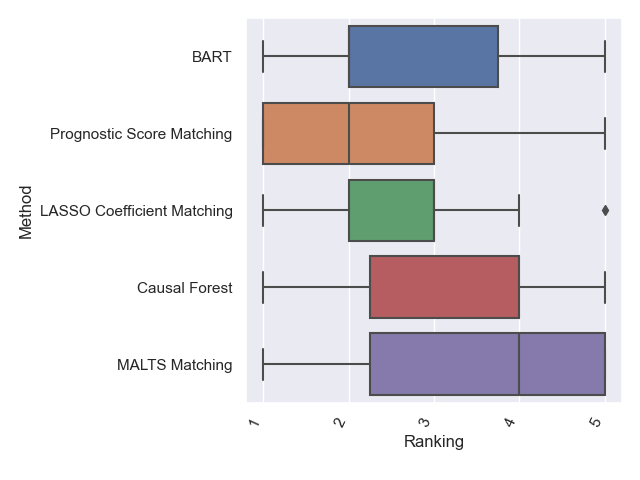
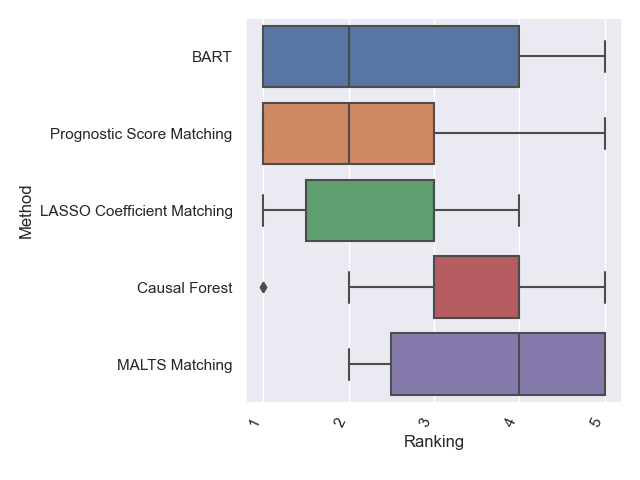
ading DOubleML for acic cate error run

diff --git a/Experiments/acic_error_and_runtime/cate_error.py b/Experiments/acic_error_and_runtime/cate_error.py
@@ -16,7 +16,7 @@ import matplotlib.ticker as ticker
 import seaborn as sns
 
 from Experiments.helpers import get_acic_data
-from other_methods import pymalts, bart, causalforest, prognostic
+from other_methods import pymalts, bart, causalforest, prognostic, doubleml
 from src.linear_coef_matching_mf import LCM_MF
 import pickle
 
@@ -81,17 +81,8 @@ method_name = 'LASSO Coefficient Matching'
 start = time.time()
 lcm = LCM_MF(outcome='Y', treatment='T', data=df_dummy_data, n_splits=n_splits, n_repeats=1)
 lcm.fit(method='linear', double_model=False)
-attempt = 0
-while attempt < nn_retries:
-    try:
-        lcm.MG(k=k_est)
-        break
-    except RuntimeError as e:
-        print(f'{method_name} attempt {attempt+1}: {e}')
-        attempt +=1
-        if attempt == nn_retries:
-            raise e
-lcm.CATE(cate_methods=[['mean', False]])
+lcm.MG(k=k_est)
+lcm.CATE(cate_methods=[['linear_pruned', False]])
 times[method_name] = time.time() - start
 
 cate_df = lcm.cate_df
@@ -112,17 +103,8 @@ start = time.time()
 lcm = LCM_MF(outcome='Y', treatment='T', data=df_dummy_data, n_splits=n_splits, n_repeats=1)
 lcm.gen_skf = split_strategy
 lcm.fit(method='tree', double_model=False)
-attempt = 0
-while attempt < nn_retries:
-    try:
-        lcm.MG(k=k_est)
-        break
-    except RuntimeError as e:
-        print(f'{method_name} attempt {attempt+1}: {e}')
-        attempt +=1
-        if attempt == nn_retries:
-            raise e
-lcm.CATE(cate_methods=[['mean', False]])
+lcm.MG(k=k_est)
+lcm.CATE(cate_methods=[['linear_pruned', False]])
 times[method_name] = time.time() - start
 
 cate_df = lcm.cate_df
@@ -133,37 +115,13 @@ cate_df['Method'] = [method_name for i in range(cate_df.shape[0])]
 df_err = df_err.append(cate_df[['Method', 'True_CATE', 'Est_CATE', 'Relative Error (%)']].copy(deep=True))
 print(f'{method_name} method complete: {time.time() - start}')
 
-# method_name = 'DoubleML'
-# start = time.time()
-# cate_est_doubleml = doubleml.doubleml('Y', 'T', df_dummy_data, gen_skf=split_strategy)
-# times[method_name] = time.time() - start
-
-# df_err_bart = pd.DataFrame()
-# df_err_bart['Method'] = [method_name for i in range(cate_est_bart.shape[0])]
-# df_err_bart['Relative Error (%)'] = np.abs(
-#     (cate_est_bart['avg.CATE'].to_numpy() - df_true['TE'].to_numpy()) / np.abs(df_true['TE']).mean())
-# df_err_bart['True_CATE'] = df_true['TE'].to_numpy()
-# df_err_bart['Est_CATE'] = cate_est_bart['avg.CATE'].to_numpy()
-# df_err = df_err.append(df_err_bart[['Method', 'True_CATE', 'Est_CATE', 'Relative Error (%)']])
-# print(f'{method_name} complete: {time.time() - start}')
-
-
 if run_malts:
     method_name = 'MALTS Matching'
-    attempt = 0
-    while attempt < nn_retries:
-        try:
-            start = time.time()
-            m = pymalts.malts_mf('Y', 'T', data=df_data, discrete=binary+categorical, k_tr=15, k_est=k_est,
-                                 n_splits=n_splits, estimator='linear', smooth_cate=False,
-                                 gen_skf=split_strategy)
-            times[method_name] = time.time() - start
-            break
-        except RuntimeError as e:
-            print(f'{method_name} attempt {attempt+1}: {e}')
-            attempt += 1
-            if attempt == nn_retries:
-                raise e
+    start = time.time()
+    m = pymalts.malts_mf('Y', 'T', data=df_data, discrete=binary+categorical, k_tr=15, k_est=k_est,
+                         n_splits=n_splits, estimator='linear', smooth_cate=False,
+                         gen_skf=split_strategy)
+    times[method_name] = time.time() - start
     cate_df = m.CATE_df
     cate_df = cate_df.rename(columns={'avg.CATE': 'Est_CATE'})
     cate_df['True_CATE'] = df_true['TE'].to_numpy()
@@ -174,19 +132,10 @@ if run_malts:
     print(f'{method_name} complete: {time.time() - start}')
 
 method_name = 'Prognostic Score Matching'
-attempt = 0
-while attempt < nn_retries:
-    try:
-        start = time.time()
-        cate_est_prog, _, _ = prognostic.prognostic_cv('Y', 'T', df_dummy_data,
-                                                       k_est=k_est, gen_skf=split_strategy)
-        times[method_name] = time.time() - start
-        break
-    except RuntimeError as e:
-        print(f'{method_name} attempt {attempt + 1}: {e}')
-        attempt += 1
-        if attempt == nn_retries:
-            raise e
+start = time.time()
+cate_est_prog, _, _ = prognostic.prognostic_cv('Y', 'T', df_dummy_data,
+                                               k_est=k_est, gen_skf=split_strategy)
+times[method_name] = time.time() - start
 df_err_prog = pd.DataFrame()
 df_err_prog['Method'] = [method_name for i in range(cate_est_prog.shape[0])]
 df_err_prog['Relative Error (%)'] = np.abs((cate_est_prog['avg.CATE'].to_numpy() - df_true['TE'].to_numpy())/np.abs(df_true['TE']).mean())
@@ -195,32 +144,46 @@ df_err_prog['Est_CATE'] = cate_est_prog['avg.CATE'].to_numpy()
 df_err = df_err.append(df_err_prog[['Method', 'True_CATE', 'Est_CATE', 'Relative Error (%)']])
 print(f'{method_name} complete: {time.time() - start}')
 
-# method_name = 'BART'
-# start = time.time()
-# cate_est_bart = bart.bart('Y', 'T', df_dummy_data, gen_skf=split_strategy)
-# times[method_name] = time.time() - start
-#
-# df_err_bart = pd.DataFrame()
-# df_err_bart['Method'] = [method_name for i in range(cate_est_bart.shape[0])]
-# df_err_bart['Relative Error (%)'] = np.abs(
-#     (cate_est_bart['avg.CATE'].to_numpy() - df_true['TE'].to_numpy()) / np.abs(df_true['TE']).mean())
-# df_err_bart['True_CATE'] = df_true['TE'].to_numpy()
-# df_err_bart['Est_CATE'] = cate_est_bart['avg.CATE'].to_numpy()
-# df_err = df_err.append(df_err_bart[['Method', 'True_CATE', 'Est_CATE', 'Relative Error (%)']])
-# print(f'{method_name} complete: {time.time() - start}')
-#
-# method_name = 'Causal Forest'
-# start = time.time()
-# cate_est_cf = causalforest.causalforest('Y', 'T', df_dummy_data, gen_skf=split_strategy)
-# times[method_name] = time.time() - start
-#
-# df_err_cf = pd.DataFrame()
-# df_err_cf['Method'] = [method_name for i in range(cate_est_cf.shape[0])]
-# df_err_cf['Relative Error (%)'] = np.abs((cate_est_cf['avg.CATE'].to_numpy() - df_true['TE'].to_numpy())/np.abs(df_true['TE']).mean())
-# df_err_cf['True_CATE'] = df_true['TE'].to_numpy()
-# df_err_cf['Est_CATE'] = cate_est_cf['avg.CATE'].to_numpy()
-# df_err = df_err.append(df_err_cf[['Method', 'True_CATE', 'Est_CATE', 'Relative Error (%)']])
-# print(f'{method_name} complete: {time.time() - start}')
+method_name = 'DoubleML'
+start = time.time()
+cate_est_doubleml = doubleml.doubleml('Y', 'T', df_dummy_data, gen_skf=split_strategy)
+times[method_name] = time.time() - start
+
+df_err_doubleml = pd.DataFrame()
+df_err_doubleml['Method'] = [method_name for i in range(cate_est_doubleml.shape[0])]
+df_err_doubleml['Relative Error (%)'] = np.abs(
+    (cate_est_doubleml['avg.CATE'].to_numpy() - df_true['TE'].to_numpy()) / np.abs(df_true['TE']).mean())
+df_err_doubleml['True_CATE'] = df_true['TE'].to_numpy()
+df_err_doubleml['Est_CATE'] = cate_est_doubleml['avg.CATE'].to_numpy()
+df_err = df_err.append(df_err_doubleml[['Method', 'True_CATE', 'Est_CATE', 'Relative Error (%)']])
+print(f'{method_name} complete: {time.time() - start}')
+
+method_name = 'BART'
+start = time.time()
+cate_est_bart = bart.bart('Y', 'T', df_dummy_data, gen_skf=split_strategy)
+times[method_name] = time.time() - start
+
+df_err_bart = pd.DataFrame()
+df_err_bart['Method'] = [method_name for i in range(cate_est_bart.shape[0])]
+df_err_bart['Relative Error (%)'] = np.abs(
+    (cate_est_bart['avg.CATE'].to_numpy() - df_true['TE'].to_numpy()) / np.abs(df_true['TE']).mean())
+df_err_bart['True_CATE'] = df_true['TE'].to_numpy()
+df_err_bart['Est_CATE'] = cate_est_bart['avg.CATE'].to_numpy()
+df_err = df_err.append(df_err_bart[['Method', 'True_CATE', 'Est_CATE', 'Relative Error (%)']])
+print(f'{method_name} complete: {time.time() - start}')
+
+method_name = 'Causal Forest'
+start = time.time()
+cate_est_cf = causalforest.causalforest('Y', 'T', df_dummy_data, gen_skf=split_strategy)
+times[method_name] = time.time() - start
+
+df_err_cf = pd.DataFrame()
+df_err_cf['Method'] = [method_name for i in range(cate_est_cf.shape[0])]
+df_err_cf['Relative Error (%)'] = np.abs((cate_est_cf['avg.CATE'].to_numpy() - df_true['TE'].to_numpy())/np.abs(df_true['TE']).mean())
+df_err_cf['True_CATE'] = df_true['TE'].to_numpy()
+df_err_cf['Est_CATE'] = cate_est_cf['avg.CATE'].to_numpy()
+df_err = df_err.append(df_err_cf[['Method', 'True_CATE', 'Est_CATE', 'Relative Error (%)']])
+print(f'{method_name} complete: {time.time() - start}')
 
 df_err.loc[:, 'Relative Error (%)'] = df_err.loc[:, 'Relative Error (%)'] * 100
 

diff --git a/other_methods/doubleml.py b/other_methods/doubleml.py
@@ -9,19 +9,15 @@ def doubleml(outcome, treatment, data, n_splits=2, gen_skf=None):
     if gen_skf is None:
         skf = StratifiedKFold(n_splits=n_splits)
         gen_skf = skf.split(data, data[treatment])
+    covariates = [c for c in data.columns if c not in [outcome, treatment]]
     cate_est = pd.DataFrame()
     for est_idx, train_idx in gen_skf:
         df_train = data.iloc[train_idx]
         df_est = data.iloc[est_idx]
-
-        covariates = list(set(data.columns) - set([outcome, treatment]))
-
         X = np.array(df_train.loc[:, covariates])
         Y = np.array(df_train.loc[:, outcome])
         T = np.array(df_train.loc[:, treatment])
-
         X_est = np.array(df_est.loc[:, covariates])
-
         est = SparseLinearDML(discrete_treatment=True)
         print('1')
         start = time.time()
@@ -29,53 +25,22 @@ def doubleml(outcome, treatment, data, n_splits=2, gen_skf=None):
         print('2')
         print(time.time() - start)
         start = time.time()
-        print(est.effect(X=X_est))
+        this_te_est = est.effect(X=X_est)
         print('3')
         print(time.time() - start)
+        this_index = df_est.index
+        cate_est_i = pd.DataFrame(this_te_est, index=this_index, columns=['CATE'])
+        cate_est = pd.concat([cate_est, cate_est_i], join='outer', axis=1)
 
-        print('hi')
-    #     Xtest = df_est[covariates].to_numpy()
-    #     bart_res_c = dbarts.bart(Xc, Yc, Xtest, keeptrees=True, verbose=False, ntree=500, ndpost=10000)
-    #     if discrete_outcome:
-    #         y_c_hat_bart = norm.cdf(bart_res_c[2]).mean(axis=0)
-    #     else:
-    #         y_c_hat_bart = np.array(bart_res_c[7])
-    #     bart_res_t = dbarts.bart(Xt, Yt, Xtest, keeptrees=True, verbose=False, ntree=500, ndpost=10000)
-    #     if discrete_outcome:
-    #         y_t_hat_bart = norm.cdf(bart_res_t[2]).mean(axis=0)
-    #     else:
-    #         y_t_hat_bart = np.array(bart_res_t[7])
-    #     t_hat_bart = np.array(y_t_hat_bart - y_c_hat_bart)
-    #     this_index = df_est.index
-    #     control_preds_i = pd.DataFrame(y_c_hat_bart, index=this_index, columns=['Y0'])
-    #     treatment_preds_i = pd.DataFrame(y_t_hat_bart, index=this_index, columns=['Y1'])
-    #     cate_est_i = pd.DataFrame(t_hat_bart, index=this_index, columns=['CATE'])
-    #
-    #     control_preds = pd.concat([control_preds, control_preds_i], join='outer', axis=1)
-    #     treatment_preds = pd.concat([treatment_preds, treatment_preds_i], join='outer', axis=1)
-    #     cate_est = pd.concat([cate_est, cate_est_i], join='outer', axis=1)
-    # control_preds['avg.Y0'] = control_preds.mean(axis=1)
-    # control_preds['std.Y0'] = control_preds.std(axis=1)
-    # treatment_preds['avg.Y1'] = treatment_preds.mean(axis=1)
-    # treatment_preds['std.Y1'] = treatment_preds.std(axis=1)
-    # cate_est = cate_est.sort_index()
-    # cate_est['avg.CATE'] = cate_est.mean(axis=1)
-    # cate_est['std.CATE'] = cate_est.std(axis=1)
-    # if result == 'full':
-    #     return cate_est, control_preds, treatment_preds
-    # return cate_est
+    cate_est = cate_est.sort_index()
+    cate_est['avg.CATE'] = cate_est.mean(axis=1)
+    cate_est['std.CATE'] = cate_est.std(axis=1)
+    return cate_est
 
-def bart_sample(outcome, treatment, df_train, sample, covariates, binary=False):
-    Xc = np.array(df_train.loc[df_train[treatment] == 0, covariates])
-    Yc = np.array(df_train.loc[df_train[treatment] == 0, outcome])
-
-    Xt = np.array(df_train.loc[df_train[treatment] == 1, covariates])
-    Yt = np.array(df_train.loc[df_train[treatment] == 1, outcome])
-
-    if binary:
-        # for some reason bart can't do one sample inference with binary outcome. so we add a dummy sample
-        sample = np.concatenate([sample, np.zeros(shape=sample.shape)], axis=0)
-        return norm.cdf(dbarts.bart(Xt, Yt, sample, keeptrees=False, verbose=False)[2][:, 0]).mean() - \
-               norm.cdf(dbarts.bart(Xc, Yc, sample, keeptrees=False, verbose=False)[2][:, 0]).mean()
-    return dbarts.bart(Xt, Yt, sample, keeptrees=False, verbose=False)[7][0] - \
-           dbarts.bart(Xc, Yc, sample, keeptrees=False, verbose=False)[7][0]
+def doubleml_sample(outcome, treatment, df_train, sample, covariates):
+    X = np.array(df_train.loc[:, covariates])
+    Y = np.array(df_train.loc[:, outcome])
+    T = np.array(df_train.loc[:, treatment])
+    est = SparseLinearDML(discrete_treatment=True)
+    est.fit(Y=Y, T=T, X=X)
+    return est.effect(sample)

diff --git a/Experiments/acic_error_and_runtime/model_fits/lcm_model_fit.py b/Experiments/acic_error_and_runtime/model_fits/lcm_model_fit.py
@@ -7,17 +7,21 @@ import time
 from src.linear_coef_matching import LCM
 from utils import sample_match_group, sample_linear_cate
 from sklearn.neighbors import NearestNeighbors
+import os
 
 np.random.seed(0)
 
-acic_results_folder = f"{os.getenv('RESULTS_FOLDER')}/{os.getenv('ACIC_FOLDER')}"[:-1]
-split_num = int(os.getenv('SPLIT_NUM'))
+# acic_results_folder = f"{os.getenv('RESULTS_FOLDER')}/{os.getenv('ACIC_FOLDER')}"[:-1]
+# split_num = int(os.getenv('SPLIT_NUM'))
 
-with open(f'{acic_results_folder}/split.pkl', 'rb') as f:
-    est_idx, train_idx = pickle.load(f)[split_num]
+split_num = 1
+for acic_results_folder in [x[0] for x in os.walk('/Users/qlanners/projects/linear_coef_matching/Experiments/acic_error_and_runtime/Results_Tree')][1:]:
+    with open(f'{acic_results_folder}/split.pkl', 'rb') as f:
+        est_idx, train_idx = pickle.load(f)[split_num]
 
-df_train = pd.read_csv(f'{acic_results_folder}/df_dummy_data.csv', index_col=0).loc[train_idx].reset_index(drop=True)
+    df_train = pd.read_csv(f'{acic_results_folder}/df_dummy_data.csv', index_col=0).loc[train_idx].reset_index(drop=True)
 
-start = time.time()
-lcm = LCM(outcome='Y', treatment='T', data=df_train)
-print(lcm.fit(double_model=False, return_score=True))
+    start = time.time()
+    lcm = LCM(outcome='Y', treatment='T', data=df_train)
+    print(acic_results_folder.split('/')[-1])
+    print(lcm.fit(double_model=False, return_score=True))

diff --git a/Experiments/acic_error_and_runtime/plotting/errors.py b/Experiments/acic_error_and_runtime/plotting/errors.py
@@ -60,9 +60,11 @@ plt.xticks(rotation=65, horizontalalignment='right')
 plt.tight_layout()
 plt.savefig('plots/acic_cate_errors_ranking_tree2.png')
 
-perc_from_best = all_errors.copy(deep=True)
-for a in perc_from_best['ACIC File'].unique():
-    min = perc_from_best[perc_from_best['ACIC File'] == a]['Median Relative Error (%) (log)'].min()
-    perc_from_best.loc[perc_from_best['ACIC File'] == a, 'Median Relative Error (%) (log)'] = (perc_from_best[perc_from_best['ACIC File'] == a]['Median Relative Error (%) (log)'] - min) / min
-
-perc_from_best = perc_from_best.rename(columns={'Median Relative Error (%) (log)': 'Median Relative Error From Best Method (%)'})
+plt.figure()
+sns.set_context("paper")
+sns.set_style("darkgrid")
+sns.set(font_scale=1)
+sns.boxplot(data=all_errors, x="Median Relative Error (%) (log)", y="Method")
+plt.xticks(rotation=65, horizontalalignment='right')
+plt.tight_layout()
+plt.savefig('plots/acic_cate_errors_by_method_tree2.png')

diff --git a/Experiments/acic_error_and_runtime/plotting/times.py b/Experiments/acic_error_and_runtime/plotting/times.py
@@ -76,6 +76,15 @@ plt.legend(loc='upper right', prop={'size': 10})
 plt.yscale('log')
 plt.savefig('plots/acic_cate_runtimes.png')
 
+plt.figure()
+sns.set_context("paper")
+sns.set_style("darkgrid")
+sns.set(font_scale=1)
+sns.boxplot(data=all_times[all_times['Method'] != 'MALTS Matching'], x="Single CATE Runtime (s)", y="Method")
+plt.xticks(rotation=65, horizontalalignment='right')
+plt.tight_layout()
+plt.savefig('plots/acic_cate_runtimes_by_method.png')
+
 rankings = all_times.sort_values(['ACIC File', 'Single CATE Runtime (s)'],ascending=True)
 n_methods = rankings['Method'].nunique()
 rankings['Ranking'] = list(range(1, n_methods+1))*(rankings.shape[0] // n_methods)

diff --git a/src/linear_coef_matching.py b/src/linear_coef_matching.py
@@ -95,7 +95,6 @@ class LCM:
             elif method == 'tree':
                 model = tree.DecisionTreeRegressor(max_depth=4).fit(self.X, self.Y)
                 M_hat = model.feature_importances_[:-1].reshape(-1,)
-                # M_hat = np.where(M_hat*self.p > 0.25, M_hat, 0)
             self.M = (M_hat / np.sum(M_hat)) * self.p if not np.all(M_hat == 0) else np.ones(self.p)
         if return_score:
             if double_model:
